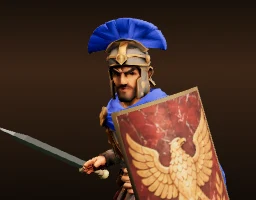
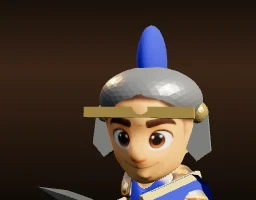
MENU2 Champions screen: roster grid, class tabs, champion in 3D, stats, main and backup
Claude-Session: https://claude.ai/code/session_01FuDU2uNEvoBax7Gus4MgXm

diff --git a/game/src/app/champpage.js b/game/src/app/champpage.js
@@ -1,36 +1,106 @@
-// LORE1 the champions' page (design doc "Where players see it", Arjun 17 Nov): from the main screen's Champions button,
-// one card each: name and title, the class, a Melee or Ranged tag, the lore, and Health, Attack (damage a second),
-// Attack rate, Reach, Speed, Army and Difficulty (stars), each a number with a bar worked out from the real numbers.
-// "Play as" makes him the one you lead.
-import { CHAMPS, CHAMP_IDS, myChamp, setMyChamp } from '../champions/index.js';
+// MENU2 the Champions screen (replaces LORE1's cards; design doc "Lobby pick" layout and "Where players see it",
+// mockup 18 Nov). Left: class tabs. Middle: the launch roster as a picture grid (owned in colour, not owned greyed with
+// lock and price, free this week, Coming soon until a champion's page exists, ★ main, B backup). Right: the selected
+// champion on the home stage in 3D (the camera brings him into the window; drag to turn), stats with bars from the
+// real numbers, his soldiers' shares, lore, skins, Set as main / Set as backup. Opened from the home's Champions
+// button or a tap on your champion.
+import { CHAMPS, rosterOf, playable, owned, freeWeek, myChamp, myBackup, setMain, setBackup, onMainChange, fromAccount } from '../champions/index.js';
+import { bus } from '../core/state.js';
+import { online } from '../net/online.js';
+import { ROSTER, CHAMP_LIMITS as LIM, CHAMP_BASE as B, ARMY } from '../config.js';
+import { portraitImg, splashSrc } from '../ui/portraits.js';
+import { setHomeView, previewChamp, homeTurn } from './home.js';
 
-const CLS = { vanguard: ['Vanguard', '🛡'], striker: ['Striker', '⚔'], raider: ['Raider', '🐎'] };
-const ARMY = { vanguard: 5, striker: 3, raider: 3 }; // (C1e: men at the start by class)
-const BAR = { hp: [250, 650], dps: [15, 60], rate: [.6, 2], reach: [1, 3], spd: [4.5, 7.5], army: [2, 8] };
-const pct = (k, v) => Math.round(100 * Math.max(.05, Math.min(1, (v - BAR[k][0]) / (BAR[k][1] - BAR[k][0]))));
-const esc = s => String(s).replace(/[&<>"]/g, c => ({ '&': '&amp;', '<': '&lt;', '>': '&gt;', '"': '&quot;' })[c]);
-const css = `#champPage{position:fixed;inset:0;z-index:60;background:rgba(12,10,6,.86);display:flex;flex-direction:column;padding:12px max(14px,env(safe-area-inset-left,0px));gap:10px;color:#fff;font-family:Inter,system-ui,sans-serif;overflow:auto}
-#champPage .cpHead{display:flex;align-items:center;justify-content:space-between}#champPage h2{margin:0;font:900 22px var(--display,serif);font-style:italic;color:#ffe7a3}
-#champPage .cpList{display:flex;gap:12px;flex-wrap:wrap}.cpCard{flex:1 1 300px;max-width:420px;border:2px solid #b68a2e;border-radius:14px;background:rgba(16,14,8,.6);padding:10px 12px;display:flex;flex-direction:column;gap:6px}
-.cpCard.mine{border-color:#ffd36e;box-shadow:0 0 14px rgba(255,211,110,.4)}.cpTop{display:flex;align-items:baseline;gap:8px;flex-wrap:wrap}.cpTop b{font:900 18px var(--display,serif);font-style:italic}.cpTop i{color:#ffe7a3;font-size:12px}
-.cpTags{display:flex;gap:6px}.cpTags span{font:800 10px Inter,sans-serif;letter-spacing:.06em;text-transform:uppercase;border:1px solid rgba(255,231,163,.6);border-radius:999px;padding:2px 8px}
-.cpLore{font-size:12px;line-height:1.45;color:#e8dcc0}.cpStats{display:grid;grid-template-columns:auto 1fr auto;gap:3px 8px;align-items:center;font-size:11px}
-.cpStats u{display:block;height:6px;border-radius:3px;background:rgba(255,255,255,.12);text-decoration:none}.cpStats u i{display:block;height:100%;border-radius:3px;background:linear-gradient(90deg,#c9932e,#ffe7a3)}.cpStats em{font-style:normal;font-weight:800;text-align:right}
-.cpCard button{align-self:flex-start}`;
-let el = null;
-function card(id) {
-  const d = CHAMPS[id], s = d.stats, [cls, icon] = CLS[d.cls] || [d.cls, ''], army = ARMY[d.cls] || 3, dps = s.dmg * s.rate, mine = myChamp() === id;
-  const row = (name, k, v, shown) => `<span>${name}</span><u><i style="width:${pct(k, v)}%"></i></u><em>${shown}</em>`;
-  return `<div class="cpCard${mine ? ' mine' : ''}" data-id="${id}"><div class="cpTop"><b>${esc(d.name)}</b><i>${esc(d.title || '')}</i></div>
-    <div class="cpTags"><span>${icon} ${cls}</span><span>${d.ranged ? 'Ranged' : 'Melee'}</span><span>${esc(d.origin || '')}</span></div>
-    <div class="cpLore">${esc(d.lore || '')}</div>
-    <div class="cpStats">${row('Health', 'hp', s.hp, s.hp)}${row('Attack', 'dps', dps, Math.round(dps) + '/s')}${row('Attack rate', 'rate', s.rate, s.rate + '/s')}${row('Reach', 'reach', s.reach, s.reach + ' m')}${row('Speed', 'spd', s.spd, s.spd + ' m/s')}${row('Army', 'army', army, army + ' men')}<span>Difficulty</span><span style="color:#ffd36e">${'★'.repeat(d.difficulty || 1)}${'☆'.repeat(3 - (d.difficulty || 1))}</span><em></em></div>
-    <button type="button" class="go${mine ? ' ghost' : ''}" data-pick="${id}">${mine ? 'Leading' : 'Play as'}</button></div>`;
+const TABS = [['all', 'All'], ['vanguard', 'Vanguard'], ['striker', 'Striker'], ['raider', 'Raider']];
+const CLS = { vanguard: 'Vanguard', striker: 'Striker', raider: 'Raider' };
+const ICON = { // (class icons: inline stroke SVG)
+  vanguard: '<path d="M12 3l7 3v6c0 4-3 7-7 9-4-2-7-5-7-9V6z"/>', striker: '<path d="M5 19L19 5M14 5h5v5M5 14l5 5"/>', raider: '<path d="M13 3L5 13h6l-1 8 8-10h-6z"/>',
+};
+const icon = c => `<svg aria-hidden="true" viewBox="0 0 24 24" fill="none" stroke="currentColor" stroke-width="2" stroke-linecap="round" stroke-linejoin="round">${ICON[c] || ''}</svg>`;
+const esc = s => String(s ?? '').replace(/[&<>"]/g, c => ({ '&': '&amp;', '<': '&lt;', '>': '&gt;', '"': '&quot;' })[c]);
+const silver = n => n.toLocaleString('en-US');
+const CS = { tab: 'all', sel: null };
+const $ = id => document.getElementById(id);
+const nameOf = r => r.name || `${r.culture} ${CLS[r.cls]}`;
+// a bar's fill from the real number, between the guardrails' floor and ceiling (10%..100%)
+const bar = (v, [lo, hi]) => Math.round(100 * Math.max(.1, Math.min(1, .1 + .9 * (v - lo) / (hi - lo))));
+
+function tile(r) {
+  const id = r.id, play = playable(id), own = owned(id), main = myChamp() === id, back = myBackup() === id;
+  const state = !play ? 'soon' : own ? 'owned' : 'locked';
+  const badge = main ? '<i class="pmain" aria-hidden="true">★</i>' : back ? '<i class="pback" aria-hidden="true">B</i>' : '';
+  const corner = !play ? '<span class="psoon">Coming soon</span>' : !own ? `<span class="plock">${lockSvg}${silver(r.price || 0)}</span>` : freeWeek(id) ? '<span class="pfree">Free this week</span>' : '';
+  const lbl = `${nameOf(r)}, ${r.culture} ${CLS[r.cls]}${!play ? ', coming soon' : !own ? `, not owned, ${silver(r.price || 0)} Silver` : ''}${main ? ', your main' : back ? ', your backup' : ''}`;
+  return `<button type="button" class="ptile ${state}${CS.sel === id ? ' sel' : ''}" data-id="${id}" aria-pressed="${CS.sel === id}" aria-label="${esc(lbl)}">
+    <span class="pic">${portraitImg(id)}</span><span class="pcult">${esc(r.culture)}</span>${badge}${corner}<b class="pname">${esc(r.name || '?')}</b></button>`;
 }
-export function showChampions(only) {
-  if (!el) { const st = document.createElement('style'); st.textContent = css; document.head.appendChild(st); el = document.createElement('div'); el.id = 'champPage'; document.body.appendChild(el);
-    el.addEventListener('click', e => { const b = e.target.closest('button'); if (!b) return; if (b.dataset.pick) { setMyChamp(b.dataset.pick); showChampions(el.dataset.only || null); } else if (b.id === 'cpDone') el.hidden = true; }); }
-  el.dataset.only = only || ''; el.hidden = false;
-  el.innerHTML = `<div class="cpHead"><h2>Champions</h2><button type="button" class="go" id="cpDone">Done</button></div><div class="cpList">${(only ? [only] : CHAMP_IDS.slice().reverse()).map(card).join('')}</div>`;
+const lockSvg = '<svg aria-hidden="true" viewBox="0 0 24 24" fill="none" stroke="currentColor" stroke-width="2.6"><rect x="5" y="11" width="14" height="10" rx="2"/><path d="M8 11V8a4 4 0 0 1 8 0v3"/></svg>';
+
+function statRows(d) {
+  const s = d.stats, dps = s.dmg * s.rate, rg = !!d.ranged, horse = (d.mount && d.mount.spd) || B.horse, army = (ARMY[d.cls] || ARMY.vanguard).start;
+  const row = (name, shown, pct, kind) => `<div class="csrow"><span>${name}</span><b>${shown}</b><u class="${kind}"><i style="width:${pct}%"></i></u></div>`;
+  return row('Health', s.hp, bar(s.hp, LIM.hp), 'tough')
+    + row('Attack', `${s.dmg} × ${s.rate}/s`, bar(dps, LIM.dps), 'hit')
+    + row('Reach', `${s.reach} m`, rg ? bar(s.reach, LIM.rangedReach) : bar(s.reach, LIM.reach), 'move')
+    + row('Speed', `${s.spd} · ${horse} m/s`, bar(s.spd, LIM.spd), 'move')
+    + row('Army', `${army} to start`, bar(army, [2, 6]), 'move');
 }
-document.getElementById('champsBtn')?.addEventListener('click', () => showChampions());
+// his soldiers take his shares off the base champion (champions/army.js): shown as ▲ / ▼
+function soldiers(d) {
+  const s = d.stats, pc = v => Math.round((v - 1) * 100), parts = [['health', pc(s.hp / B.hp)], ['damage', pc(s.dmg / B.dmg)], ['rate', pc(s.rate / B.rate)], ['speed', pc(s.spd / B.spd)], [d.ranged ? 'range' : 'reach', pc(d.ranged ? s.reach / B.rangedReach : s.reach / B.reach)]].filter(([, v]) => v);
+  return parts.length ? `<p class="cssold">His soldiers: ${parts.map(([k, v]) => `<b class="${v > 0 ? 'up' : 'down'}">${v > 0 ? '▲' : '▼'}${Math.abs(v)}% ${k}</b>`).join(' ')}</p>` : '<p class="cssold">His soldiers: as the base</p>';
+}
+function panel() {
+  const id = CS.sel, r = rosterOf(id), d = CHAMPS[id], play = playable(id);
+  const head = `<div class="cstop"><h3>${esc(d ? d.name : nameOf(r))}</h3>${d ? `<span class="csstars" aria-label="Difficulty ${d.difficulty || 1} of 3">${'★'.repeat(d.difficulty || 1)}${'☆'.repeat(3 - (d.difficulty || 1))}</span>` : ''}</div>
+    <div class="cstags"><span>${icon(r.cls)}${CLS[r.cls]}</span><span>${esc(r.culture)}</span>${d ? `<span>${d.ranged ? 'Ranged' : 'Melee'}</span>` : ''}</div>`;
+  if (!play) return `${head}<p class="csnote">Coming soon.${r.launch === 'buy' ? ` To earn or buy: ${silver(r.price)} Silver.` : ' Free for everyone at launch.'}</p>`;
+  const main = myChamp() === id, back = myBackup() === id, own = owned(id);
+  const acts = own ? `<button type="button" class="go csmain${main ? ' on' : ''}" data-act="main"${main ? ' aria-pressed="true"' : ''}>${main ? '★ Your main' : '★ Set as main'}</button>
+      <button type="button" class="go ghost csback${back ? ' on' : ''}" data-act="backup"${main ? ' disabled' : ''}>${back ? 'Your backup' : 'Set as backup'}</button>`
+    : `<button type="button" class="go" disabled>${lockSvg} ${silver(r.price || 0)} Silver · shop soon</button>`;
+  return `${head}<div class="csstats">${statRows(d)}</div>${soldiers(d)}<p class="cslore">${esc(d.lore || '')}</p>
+    <div class="csskins" role="group" aria-label="Skins"><button type="button" class="skin on" aria-pressed="true" aria-label="Default skin, worn"><span>Default</span></button><span class="skin soon" aria-label="More skins coming with the shop">Soon</span><span class="skin soon" aria-hidden="true">Soon</span></div>
+    <div class="csacts">${acts}</div>`;
+}
+function render() {
+  const el = $('champScreen'); if (!el) return;
+  const list = ROSTER.filter(r => CS.tab === 'all' || r.cls === CS.tab);
+  el.querySelector('.cstabs').innerHTML = TABS.map(([k, n]) => `<button type="button" role="tab" data-tab="${k}" aria-selected="${CS.tab === k}">${k === 'all' ? '' : icon(k)}${n}</button>`).join('');
+  el.querySelector('.csgrid').innerHTML = list.map(tile).join('');
+  el.querySelector('.csinfo').innerHTML = panel();
+  const play = playable(CS.sel), art = el.querySelector('.csart');
+  art.hidden = play; if (!play) art.style.backgroundImage = `url(${splashSrc(CS.sel)})`;
+  previewChamp(play ? CS.sel : myChamp()); // (his 3D figure in the window; a champion still to come shows his art instead)
+}
+function build(el) {
+  el.innerHTML = `<div class="csmodel" id="csModel" aria-label="Drag to turn"><div class="csart" hidden></div><small>Drag to turn</small></div>
+    <header class="cshead"><button type="button" class="csx" data-act="close" aria-label="Back to home"><svg aria-hidden="true" viewBox="0 0 24 24" fill="none" stroke="currentColor" stroke-width="2.4" stroke-linecap="round" stroke-linejoin="round"><path d="M15 5l-7 7 7 7"/></svg></button><h2>Champions</h2><span class="silver"><i aria-hidden="true"></i><b id="csSilver">0</b> Silver</span></header>
+    <div class="cstabs" role="tablist" aria-label="Class"></div><div class="csgrid"></div>
+    <div class="cslegend"><span><b class="pmainc">★</b> Your main</span><span><b class="pbackc">B</b> Backup</span><span>${lockSvg} Not owned</span><span class="pfree">Free this week</span></div>
+    <section class="csinfo" aria-live="polite"></section>`;
+  el.addEventListener('click', e => {
+    const b = e.target.closest('button'); if (!b || b.disabled) return;
+    if (b.dataset.tab) { CS.tab = b.dataset.tab; render(); }
+    else if (b.dataset.id) { CS.sel = b.dataset.id; render(); }
+    else if (b.dataset.act === 'main') { setMain(CS.sel); render(); }
+    else if (b.dataset.act === 'backup') { setBackup(myBackup() === CS.sel ? null : CS.sel); render(); }
+    else if (b.dataset.act === 'close') closeChampions();
+  });
+  const m = el.querySelector('.csmodel'); let px = null; // (drag to turn him)
+  m.addEventListener('pointerdown', e => { px = e.clientX; m.setPointerCapture(e.pointerId); });
+  m.addEventListener('pointermove', e => { if (px == null) return; homeTurn((e.clientX - px) * .012); px = e.clientX; });
+  m.addEventListener('pointerup', () => { px = null; }); m.addEventListener('pointercancel', () => { px = null; });
+}
+export function showChampions(id) {
+  const el = $('champScreen'); if (!el) return;
+  if (!el.firstChild) build(el);
+  CS.sel = id || CS.sel || myChamp(); if (!rosterOf(CS.sel)) CS.sel = myChamp();
+  setHomeView('champs'); render();
+}
+export function closeChampions() { previewChamp(myChamp()); setHomeView('home'); }
+$('champsBtn')?.addEventListener('click', () => showChampions(myChamp()));
+// (MENU4) your main and backup live on the account: a sign-in brings them, a change goes up and onto the stage
+bus.on('online', ({ k, m }) => { if (k === 'me' && m && m.main) { fromAccount(m.main, m.backup); if ($('champScreen').hidden) previewChamp(myChamp()); } });
+onMainChange(() => { online.ch(myChamp(), myBackup()); if ($('champScreen').hidden) previewChamp(myChamp()); });
+if (import.meta.env.DEV) window.__cs = { CS, show: showChampions, close: closeChampions };

diff --git a/game/src/ui/champs.css b/game/src/ui/champs.css
@@ -10,3 +10,55 @@
 .mlseat > :not(.chface),.vscol p > :not(.chface){grid-column:2;}
 .vscol p .chface{width:52px;height:40px;}
 .vsscreen{background-image:linear-gradient(rgba(8,7,6,.78),rgba(8,7,6,.86)),var(--splash,none),radial-gradient(ellipse at center,#2a2622,#0d0c0b);background-size:cover;background-position:center;}
+/* MENU2 the Champions screen: everything dark except the model window, through which the home stage shows */
+.cscreen{position:absolute;inset:0;z-index:5;overflow:hidden;color:#f2efe8;font-family:var(--body,Inter,sans-serif);--l:max(12px,env(safe-area-inset-left,0px));--r:max(12px,env(safe-area-inset-right,0px));--panel:min(340px,40vw);}
+.cscreen[hidden]{display:none;}
+.csmodel{position:absolute;right:calc(var(--r) + var(--panel) - 118px);top:58px;bottom:12px;width:118px;border-radius:12px;box-shadow:0 0 0 3000px rgba(11,13,19,.94);touch-action:none;cursor:grab;}
+.csmodel small{position:absolute;left:0;right:0;bottom:4px;text-align:center;font:600 10px var(--body,Inter,sans-serif);color:#c9c4b8;}
+.csart{position:absolute;inset:0;border-radius:12px;background:#14100c center/cover no-repeat;}
+.csart[hidden]{display:none;}
+.cshead{position:absolute;left:var(--l);right:var(--r);top:6px;height:44px;display:flex;align-items:center;gap:12px;}
+.cshead h2{margin:0;font:400 26px var(--display);font-style:italic;letter-spacing:.04em;color:var(--gold,#ffcf3a);flex:1;}
+.csx{width:44px;height:40px;border:0;border-radius:10px;background:rgba(255,255,255,.08);color:#fff;display:grid;place-items:center;cursor:pointer;}
+.csx svg{width:20px;height:20px;}
+.silver{display:flex;align-items:center;gap:6px;padding:4px 12px;border-radius:999px;background:rgba(255,255,255,.08);font:600 12px var(--body);color:#c9c4b8;}
+.silver b{color:#fff;font-size:13px;} .silver i{width:13px;height:13px;border-radius:50%;background:#d8dde3;box-shadow:inset 0 0 0 3px #8a929c;}
+.cstabs{position:absolute;left:var(--l);top:58px;width:104px;display:flex;flex-direction:column;gap:6px;}
+.cstabs button{min-height:44px;border:0;border-radius:10px;background:rgba(255,255,255,.05);color:#c9c4b8;font:700 13px var(--body);text-align:left;padding:0 10px;display:flex;align-items:center;gap:7px;cursor:pointer;}
+.cstabs button svg{width:16px;height:16px;flex:none;}
+.cstabs button[aria-selected="true"]{background:rgba(255,207,58,.18);color:#fff;box-shadow:inset 3px 0 0 var(--gold,#ffcf3a);}
+.csgrid{position:absolute;left:calc(var(--l) + 114px);right:calc(var(--r) + var(--panel) + 10px);top:58px;bottom:34px;display:grid;grid-template-columns:repeat(3,minmax(0,1fr));grid-auto-rows:minmax(0,1fr);gap:8px;align-content:start;overflow:auto;}
+.ptile{position:relative;aspect-ratio:118/92;padding:0;border:1px solid rgba(255,255,255,.12);border-radius:10px;overflow:hidden;background:#161a24;color:#fff;cursor:pointer;}
+.ptile .pic{position:absolute;inset:0;}
+.ptile.locked .pic,.ptile.soon .pic{filter:grayscale(1) brightness(.5);}
+.ptile.sel{border:2px solid var(--gold,#ffcf3a);box-shadow:0 0 12px rgba(255,207,58,.35);}
+.ptile .pname{position:absolute;left:0;right:0;bottom:0;padding:3px 7px;background:rgba(0,0,0,.6);font:400 15px var(--display);font-style:italic;letter-spacing:.03em;text-align:left;}
+.ptile .pcult{position:absolute;left:5px;top:5px;padding:1px 5px;border-radius:4px;background:rgba(0,0,0,.6);font:800 9px var(--body);letter-spacing:.06em;text-transform:uppercase;}
+.ptile .pmain,.ptile .pback{position:absolute;right:5px;top:3px;font:900 15px var(--body);font-style:normal;color:var(--gold,#ffcf3a);text-shadow:0 1px 3px #000;}
+.ptile .pback{font-size:12px;top:5px;padding:0 5px;border-radius:4px;background:rgba(0,0,0,.6);}
+.ptile .psoon,.ptile .plock{position:absolute;left:0;right:0;top:40%;text-align:center;font:800 10px var(--body);letter-spacing:.08em;text-transform:uppercase;color:#d8d3c8;display:flex;align-items:center;justify-content:center;gap:3px;}
+.ptile .plock svg,.cslegend svg,.csacts svg{width:11px;height:11px;}
+.pfree{padding:1px 5px;border-radius:4px;background:#2f6f4e;color:#eaf6ef;font:800 9px var(--body);letter-spacing:.06em;text-transform:uppercase;}
+.ptile .pfree{position:absolute;right:5px;bottom:26px;}
+.cslegend{position:absolute;left:calc(var(--l) + 114px);bottom:8px;display:flex;gap:12px;align-items:center;font:600 10px var(--body);color:#c9c4b8;white-space:nowrap;}
+.cslegend span{display:flex;align-items:center;gap:3px;} .pmainc,.pbackc{color:var(--gold,#ffcf3a);}
+.csinfo{position:absolute;right:var(--r);top:58px;bottom:12px;width:calc(var(--panel) - 126px);padding:8px 10px;box-sizing:border-box;border-radius:12px;background:#161a24;border:1px solid rgba(255,255,255,.08);display:flex;flex-direction:column;gap:6px;overflow:auto;}
+.cstop{display:flex;align-items:baseline;gap:8px;} .cstop h3{margin:0;font:400 21px var(--display);font-style:italic;letter-spacing:.03em;line-height:1;}
+.csstars{color:var(--gold,#ffcf3a);font-size:12px;}
+.cstags{display:flex;gap:5px;flex-wrap:wrap;} .cstags span{display:flex;align-items:center;gap:3px;padding:2px 6px;border-radius:4px;background:rgba(255,255,255,.08);font:800 9px var(--body);letter-spacing:.06em;text-transform:uppercase;}
+.cstags svg{width:11px;height:11px;}
+.csstats{display:flex;flex-direction:column;gap:4px;}
+.csrow{display:grid;grid-template-columns:1fr auto;column-gap:6px;font:600 10px var(--body);color:#c9c4b8;}
+.csrow b{color:#fff;font-weight:800;} .csrow u{grid-column:1/-1;display:block;height:4px;border-radius:2px;background:rgba(255,255,255,.1);text-decoration:none;}
+.csrow u i{display:block;height:100%;border-radius:2px;} .csrow u.tough i{background:#5fbf7f;} .csrow u.hit i{background:#e0704a;} .csrow u.move i{background:#6aa8e0;}
+.cssold,.cslore,.csnote{margin:0;font:500 10px/1.35 var(--body);color:#c9c4b8;} .cssold b{font-weight:800;} .cssold .up{color:#7fd69a;} .cssold .down{color:#f08a66;}
+.csnote{font-size:12px;}
+.csskins{display:flex;gap:5px;}
+.csskins .skin{min-width:44px;height:30px;border-radius:7px;display:grid;place-items:center;font:700 9px var(--body);color:#c9c4b8;border:1px dashed rgba(255,255,255,.2);}
+.csskins button.skin{border:2px solid var(--gold,#ffcf3a);background:rgba(255,207,58,.12);color:#fff;}
+.csacts{display:flex;gap:6px;margin-top:auto;} .csacts .go{flex:1;min-height:40px;padding:4px 6px;font-size:15px;} .csacts .csmain{background:var(--gold,#ffcf3a);color:#1b1512;}
+.csacts .csmain.on{filter:saturate(.7);}
+@media (max-height:360px){ .ptile .pname{font-size:13px;} .cslore{display:none;} }
+.csinfo{gap:5px;} .cslore{display:-webkit-box;-webkit-line-clamp:2;-webkit-box-orient:vertical;overflow:hidden;}
+.csskins .skin{height:26px;} .csacts .go{min-height:36px;}
+.csart:not([hidden]) + small{display:none;}

diff --git a/game/src/app/home.js b/game/src/app/home.js
@@ -79,7 +79,11 @@ bindInput(actions); bindTutorial();
 // he stays in view beside it. Two "+" places stand either side of him for friends.
 S.soloMap = G.map; // the map picked for Battle the computer
 S.soloPick = null; // (its mode, length and target, put back when a Crown battle has borrowed G)
-export let demoT = 0, homeCap = null, homeView = 'home'; // 'home' | 'sheet' | 'ward'
+export let demoT = 0, homeCap = null, homeView = 'home'; // 'home' | 'sheet' | 'ward' | 'champs' (MENU2)
+let champSx = -2.2, champYaw = 0; // (MENU2: the camera's slide that puts him in the Champions screen's window; his turn there)
+// (MENU2/3) which champion stands on your stage: your main, or the one the Champions screen shows
+export function previewChamp(id) { (G.champs || (G.champs = []))[G.myTi] = id; }
+export const homeTurn = d => { champYaw += d; };
 const homeV = { sx: 0, k: 0 }; // (the camera's eased slide)
 export function seedDemo() {
   if (S.soloPick) { G.mode = S.soloPick.mode; G.time = S.soloPick.time; G.target = S.soloPick.target; S.soloPick = null; }
@@ -89,6 +93,7 @@ export function seedDemo() {
   G.teams = newTeams([0, 0, 0, 0]);
   G.looks = assignLooks({ [G.myTi]: prefs.look }, 7);
   G.crests = []; G.crests[G.myTi] = progress.crest;
+  G.champs = []; G.champs[G.myTi] = myChamp(); // (MENU3: your main on the stage)
   buildWorldView(G.layout); clearEffects(); clearFeel(); deathReset(); clearHorses(); clearProps();
   // out in the meadow in front of his castle, looking back at it (the camera stands between): behind him,
   // the open valley, the flock and the shepherd
@@ -116,15 +121,20 @@ function homeCamera(dt) {
   const c = homeCap; if (!c) { orbitCamera(demoT); return; }
   const d = Math.hypot(c.x, c.z) || 1, fx = c.x / d, fz = c.z / d, rx = -fz, rz = fx; // (from him toward the camera, and sideways)
   const wide = innerWidth / Math.max(1, innerHeight) > 1.5;
-  const want = homeView === 'home' ? -2.2 : homeView === 'ward' || homeView === 'friends' ? (wide ? 1.7 : 1.3) : (wide ? -4.4 : -2.4); // (beside the sheet: right of the wardrobe, left of the setup)
+  const want = homeView === 'champs' ? champSx : homeView === 'home' ? -2.2 : homeView === 'ward' || homeView === 'friends' ? (wide ? 1.7 : 1.3) : (wide ? -4.4 : -2.4); // (beside the sheet: right of the wardrobe, left of the setup)
   homeV.sx += (want - homeV.sx) * Math.min(1, dt * 5);
   // the captain turns to face you, swaying a little in the wardrobe so the cape shows
-  const sway = homeView === 'ward' || homeView === 'friends' ? Math.sin(demoT * .7) * .75 : Math.sin(demoT * .3) * .12;
-  c.face = Math.atan2(fx, fz) + sway; c.vx = c.vz = 0;
-  const gy = groundY(c.x, c.z), dist = homeView === 'ward' || homeView === 'friends' ? 5.2 : 6.4, ty = gy + (homeView === 'ward' || homeView === 'friends' ? 1.3 : 1.45);
+  const sway = homeView === 'ward' || homeView === 'friends' || homeView === 'champs' ? Math.sin(demoT * .7) * .75 : Math.sin(demoT * .3) * .12;
+  c.face = Math.atan2(fx, fz) + (homeView === 'champs' ? champYaw : sway); c.vx = c.vz = 0;
+  if (homeView !== 'champs') champYaw *= Math.max(0, 1 - dt * 4); // (turned back to face you after)
+  const gy = groundY(c.x, c.z), dist = homeView === 'champs' ? 6.2 : homeView === 'ward' || homeView === 'friends' ? 5.2 : 6.4, ty = gy + (homeView === 'ward' || homeView === 'friends' ? 1.3 : 1.45);
   const tx = c.x + rx * homeV.sx, tz = c.z + rz * homeV.sx;
   camera.position.set(tx + fx * dist, ty + 1.15, tz + fz * dist);
   camera.lookAt(tx, ty, tz);
+  if (homeView === 'champs') { // (MENU2: slide until he stands in the middle of the screen's model window)
+    const m = $('csModel'), r = m && m.getBoundingClientRect();
+    if (r && r.width) { camera.updateMatrixWorld(); _v.set(c.x, gy + 1.2, c.z).project(camera); const px = (_v.x + 1) / 2 * innerWidth; champSx -= (px - (r.left + r.width / 2)) / innerWidth * 6 * Math.min(1, dt * 6); champSx = Math.max(-9, Math.min(9, champSx)); }
+  }
   // the "+" places beside him, one on each side (as in a game lobby), on screen where they stand in the
   // world. On a narrow screen both come in closer, evenly, so the right one stays clear of the Play panel.
   const pr = $('home').querySelector('.hplay').getBoundingClientRect();
@@ -177,7 +187,7 @@ export function demo(dt) {
 export function setHomeView(v, tabsShown) {
   if (import.meta.env.DEV && window.__testSheet && v === 'home') { v = 'sheet'; tabsShown = ['tabBattle']; } // (dev: older tests drive the setup sheet)
   homeView = v;
-  $('home').hidden = v !== 'home'; $('homeSheet').hidden = v !== 'sheet'; $('ward').hidden = v !== 'ward'; $('friendsPanel').hidden = v !== 'friends'; $('missPanel').hidden = v !== 'missions'; $('shopPanel').hidden = v !== 'shop';
+  $('home').hidden = v !== 'home'; $('homeSheet').hidden = v !== 'sheet'; $('ward').hidden = v !== 'ward'; $('friendsPanel').hidden = v !== 'friends'; $('missPanel').hidden = v !== 'missions'; $('shopPanel').hidden = v !== 'shop'; if ($('champScreen')) $('champScreen').hidden = v !== 'champs';
   $('ovTitle').classList.toggle('homing', v !== 'sheet'); $('ovTitle').classList.toggle('sheet', v === 'sheet');
   if (v === 'sheet') {
     tabs.forEach(t => { t.hidden = !tabsShown.includes(t.dataset.tab); });

diff --git a/game/index.html b/game/index.html
@@ -165,6 +165,8 @@
       <div class="flist" id="shopList"></div>
     </div>
     <div class="toast" id="inviteToast" hidden><span id="inviteT"></span><button type="button" class="go" id="inviteYes">Join</button><button type="button" class="go ghost" id="inviteNo">Later</button></div>
+    <!-- MENU2 the Champions screen: class tabs, the roster grid, the selected champion (3D through #csModel) -->
+    <div class="cscreen" id="champScreen" hidden></div>
     <!-- the wardrobe: each piece on its own; the army wears its captain's helmet, armour, shield and weapon -->
     <div class="ward" id="ward" hidden>
       <div class="whead"><h2>Your captain</h2><button type="button" class="go" id="wardDone">Done</button></div>

diff --git a/docs/STATE.md b/docs/STATE.md
@@ -443,6 +443,7 @@ Last updated: 2026-11-17 (C1 and FIX1-5 shipped: main = launch26 at 133eff0, Pag
 
 ## MENU main menu and Champions screen (18 Nov, Arjun's go; card `docs/tickets/MENU.md`). On launch26, not shipped
 - MENU1 pictures: `ui/portraits.js` (tile, face, splash; silhouette when missing), `store/bake_portraits.mjs` renders one from the 3D model; Titus and Devi from Arjun's art. Minimap faces, lobby seats, versus with your splash. Online carries each main (`ch`, `m_ch`, account main/backup; live only once main ships). r_MENU1.
+- MENU2 Champions screen (`app/champpage.js`, `ui/champs.css`; replaces LORE1): class tabs, roster grid (`ROSTER` in config/champs.js), the champion in 3D through a window (home view 'champs': the camera slides until he stands in it; drag turns him), art for one still to come, stats, soldiers ▲▼, lore, skin row (Default + Soon), Set as main/backup. r_MENU2.
 
 ## Known bugs
 - (fixed in AI1) A computer captain sometimes stood at the glacier at night without striking.
